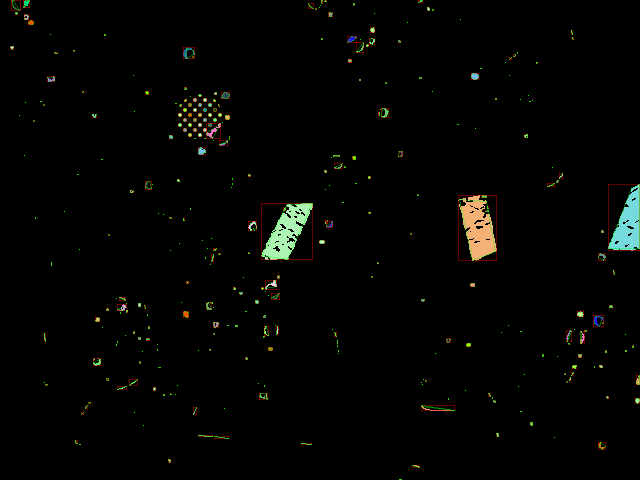
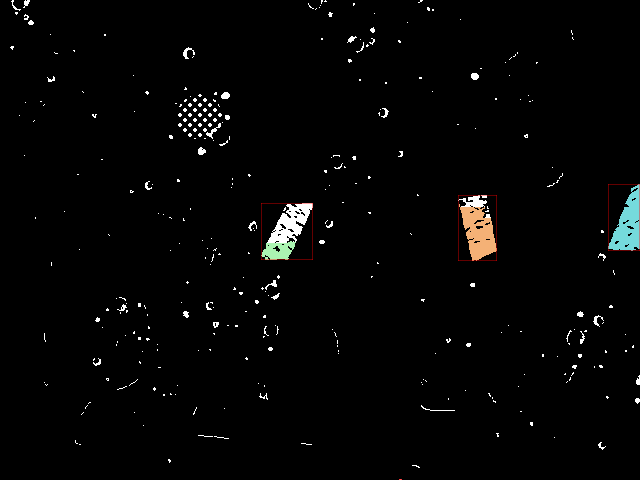
Garbage Collector MVP!!!

diff --git a/Scripting/BlobProcessor.ts b/Scripting/BlobProcessor.ts
@@ -20,7 +20,7 @@ let blobBRAMPortA: BlobBRAMPort = Object.assign({}, BLOB_BRAM_PORT_DEFAULT);
 let blobBRAMPortB: BlobBRAMPort = Object.assign({}, BLOB_BRAM_PORT_DEFAULT);
 let data: any;
 
-//Variables
+//Blob Processor
 enum BlobRunState { IDLE, LAST_LINE, MERGE_READ, MERGE_WRITE_1, MERGE_WRITE_2, JOIN_1, JOIN_2, WRITE };
 let blobRunState: BlobRunState = BlobRunState.IDLE;
 let blobPointers: number[] = [...Array(MAX_BLOBS)].map(_=>(0));
@@ -34,10 +34,20 @@ let blobRunBufferIndexLast: number;
 let blobRunBufferXLast: number;
 let blobMasterBlobID: number;
 let blobUsingPortB: boolean;
+
+//Target Selector
 let targetSelectorDone: boolean;
-enum GarbageRunState { IDLE_READ_A_WAIT_B, WAIT_A_PROCESS_B, PROCESS_A_READ_B };
-let garbageRunState: GarbageRunState = GarbageRunState.IDLE_READ_A_WAIT_B;
-let garbageIndex: number;
+
+//Garbage
+let nonGarbage: boolean[] = [...Array(MAX_BLOBS)].map(_=>(false));
+let garbagePartion: boolean; //flip flop
+let garbageIndex: number; //blob index
+let lastGarbageIndex: number[] = [0, 0];
+let garbageCollectorWasUsingPortA: boolean; //blob BRAM port
+let garbageCollectorWasUsingPortB: boolean;
+let garbageCollectorDone: boolean;
+
+//RLE
 let runBuffers: RunBuffer[] = [...Array(3)].map(_=>({
     runs: [...Array(MAX_RUNS_PER_LINE)].map(_=>({ length: 0, blobID: NULL_BLOB_ID })),
     count: 0,
@@ -48,8 +58,9 @@ let kernel: Kernel = { value: [...Array(8)].map(_=>false), pos: {x:0, y:0}, vali
 let lastKernelValid: boolean;
 
 //"180MHz" Always Loop
+let lastIsWorkingOnFrame: boolean = false;
 function alwaysLoop() {
-    //working on frame
+    //Working on Frame
     if (isWorkingOnFrame()) {
         //New Kernel
         if (kernel.valid && !lastKernelValid) {
@@ -62,14 +73,27 @@ function alwaysLoop() {
         updateBlobProcessor();
     }
 
-    //done with frame
-    else if (!targetSelectorDone && !garbageCollectorDone()) {
+    //Done with Frame
+    else if (!targetSelectorDone && garbageCollectorDone) {
         //Target Selection Loop
         updateTargetSelector();
     }
 
+    //Just Finished Frame
+    if (!isWorkingOnFrame() && lastIsWorkingOnFrame) {
+        //reset garbage collector (make sure all blobs are accounted for)
+        //FORK
+        garbagePartion = false;
+        garbageIndex = 0;
+        lastGarbageIndex = [0, 0];
+        garbageCollectorWasUsingPortA = false;
+        garbageCollectorWasUsingPortB = false;
+        //JOIN
+    }
+    lastIsWorkingOnFrame = isWorkingOnFrame();
+
     //Garbage Collection Loop
-    if (!garbageCollectorDone()) {
+    if (!garbageCollectorDone) {
         updateGarbageCollector();
     }
 }
@@ -238,6 +262,7 @@ function updateBlobProcessor() {
                                 //mark slave as pointer to master
                                 blobPointers[blobLastLineRunRealBlobID()] = blobMasterBlobID;
                                 blobValids[blobLastLineRunRealBlobID()] = false;
+                                nonGarbage[blobLastLineRunRealBlobID()] = false;
 
                                 //go merge blobs & write once we read them
                                 blobRunState = BlobRunState.MERGE_WRITE_1;
@@ -251,13 +276,17 @@ function updateBlobProcessor() {
 
                 //done looping last line => write blob
                 if (blobRunState == BlobRunState.LAST_LINE) {
-                    blobRunState = blobMasterBlobID == NULL_BLOB_ID ? BlobRunState.WRITE : BlobRunState.JOIN_1; //BLOCKING
+                    //FORK
+                    blobRunState = blobMasterBlobID == NULL_BLOB_ID ? BlobRunState.WRITE : BlobRunState.JOIN_1;
+                    //JOIN
                 }
             }
 
             else if (blobRunState == BlobRunState.MERGE_WRITE_1) {
                 //account for read delay
-                blobRunState = BlobRunState.MERGE_WRITE_2; //BLOCKING
+                //FORK
+                blobRunState = BlobRunState.MERGE_WRITE_2;
+                //JOIN
             }
 
             else if (blobRunState == BlobRunState.MERGE_WRITE_2) {
@@ -278,7 +307,9 @@ function updateBlobProcessor() {
             }
 
             else if (blobRunState == BlobRunState.JOIN_2) {
-                blobRunState = BlobRunState.WRITE; //BLOCKING
+                //FORK
+                blobRunState = BlobRunState.WRITE;
+                //JOIN
             }
 
             else if (blobRunState == BlobRunState.WRITE) {
@@ -299,6 +330,7 @@ function updateBlobProcessor() {
                     blobBRAMPortA.din = runToBlob(blobCurrentRun(), blobRunBufferXCurrent, blobCurrentLine());
                     blobBRAMPortA.wea = true;
                     blobValids[blobIndex] = true;
+                    nonGarbage[blobIndex] = false;
 
                     //set ID of the blob we made in runBuffer
                     runBuffers[blobRunBuffersPartionCurrent].runs[blobRunBufferIndexCurrent].blobID = blobIndex;
@@ -376,77 +408,93 @@ function blobProcessorOnLastLine(): boolean {
 }
 
 //Garbage Collector Loop
-let garbageCollectorWasUsingPortA = false;
-let garbageCollectorWasUsingPortB = false;
-let lastGarbageIndex: number;
 function updateGarbageCollector() {
-    if (garbageRunState == GarbageRunState.IDLE_READ_A_WAIT_B) {
-        //Read Port A
-        if (garbageCollectorCanUsePortA()) {
-            lastGarbageIndex = garbageIndex; //BLOCKING?
-            garbageIndex = getNextValidGarbageIndex(); //BLOCKING
-            //TODO getNextValidGarbageIndex returned -1 what now?
-            blobBRAMPortA.addr = garbageIndex;
-            blobBRAMPortA.wea = false;
-            garbageCollectorWasUsingPortA = true;
-            garbageRunState = GarbageRunState.WAIT_A_PROCESS_B;
-        }
-
-        //Port A Unavailble => Process Port B
-        else if (garbageCollectorUsingPortB()) {
-            garbageRunState = GarbageRunState.WAIT_A_PROCESS_B;
-        }
-
-        //Port A Unavailble & Port B not in Use => Read Port B 
-        else if (garbageCollectorCanUsePortB()) {
-            garbageRunState = GarbageRunState.PROCESS_A_READ_B;
-        }
-    }
-
-    else if (garbageRunState == GarbageRunState.WAIT_A_PROCESS_B) {
-        //Process Port B
-        if (garbageCollectorUsingPortB()) {
-            blobValids[lastGarbageIndex] = garbageCollectBlob(blobBRAMPortB.din);
-        }
-
-        //Port B is not in use => Let Port A do its thing
-        else if (garbageCollectorUsingPortA()) {
-            garbageRunState = GarbageRunState.PROCESS_A_READ_B;
-        }
-
-        //Neither Ports are in use => Idle
-        else {
-            garbageRunState = GarbageRunState.IDLE_READ_A_WAIT_B;
-        }
-    }
-    
-    else if (garbageRunState == GarbageRunState.PROCESS_A_READ_B) {
-        //Process Port A
+    if (garbagePartion) {
+        //Process Port A (if read from)
         if (garbageCollectorUsingPortA()) {
-            blobValids[garbageIndex] = garbageCollectBlob(blobBRAMPortA.din);
+            // console.log("PROC", lastGarbageIndex[1], blobBRAMPortA.dout);
+            garbageCollectBlob(lastGarbageIndex[1], blobBRAMPortA.dout);
         }
 
-        //Read Port B
+        //Read Port A (if available)
+        if (garbageCollectorCanUsePortA()) {
+            //Next Garbage Index
+            setNextGarbageIndex();
+
+            //Read Port A
+            if (garbageIndex !== NULL_BLOB_ID && !garbageCollectorDone) {
+                // console.log("READING", garbageIndex);
+                blobBRAMPortA.addr = garbageIndex;
+                blobBRAMPortA.wea = false;
+                garbageCollectorWasUsingPortA = true;
+            }
+            else {
+                garbageCollectorWasUsingPortA = false;
+            }
+        }
+    }
+
+    else {
+        //Process Port B (if read from)
+        if (garbageCollectorUsingPortB()) {
+            // console.log("PROC", lastGarbageIndex[1], blobBRAMPortB.dout);
+            garbageCollectBlob(lastGarbageIndex[1], blobBRAMPortB.dout);
+        }
+
+        //Read Port B (if available)
         if (garbageCollectorCanUsePortB()) {
-            garbageIndex = getNextValidGarbageIndex(); //BLOCKING
-            //TODO getNextValidGarbageIndex returned -1 what now?
-            blobBRAMPortB.addr = garbageIndex;
-            blobBRAMPortB.wea = false;
-            garbageCollectorWasUsingPortB = true;
+            //Next Garbage Index
+            setNextGarbageIndex();
+
+            //Read Port B
+            if (garbageIndex !== NULL_BLOB_ID && !garbageCollectorDone) {
+                // console.log("READING", garbageIndex);
+                blobBRAMPortB.addr = garbageIndex;
+                blobBRAMPortB.wea = false;
+                garbageCollectorWasUsingPortB = true;
+            }
+            else {
+                garbageCollectorWasUsingPortB = false;
+            }
+        }
+    }
+
+    // console.log(`[0] (${lastGarbageIndex[0]}) => [1], gb (${garbageIndex}) => [0]`);
+    lastGarbageIndex[1] = lastGarbageIndex[0];
+    lastGarbageIndex[0] = garbageIndex;
+    garbagePartion = !garbagePartion;
+}
+function garbageCollectBlob(index: number, blob: BlobData): void {
+    //if blob is finished adding to
+    if (blobPartionCurrentValid() && blob.boundBottomRight.y + 4 < blobCurrentLine()) {
+        // console.log(index, blob.boundBottomRight.y, blob.boundBottomRight.y + 4, blobCurrentLine());
+        if (blob.area > 100) {
+            blobValids[index] = true;
+            nonGarbage[index] = true;
+        }
+        else {
+            blobValids[index] = false;
+            nonGarbage[index] = false;
         }
     }
 }
-function garbageCollectBlob(blob: BlobData): boolean {
-    return true;
-}
-function getNextValidGarbageIndex(): number {
-    //not automatic
-    for (let i = 0; i < MAX_BLOBS; i++) {
-        if (i > garbageIndex && i < blobIndex && blobValids[i]) {
-            return i;
+function setNextGarbageIndex(): void {
+    //FORK
+    if (garbageIndex === NULL_BLOB_ID || nextValidGarbageIndex(garbageIndex + 1) === NULL_BLOB_ID) {
+        //still on frame => keep doing garbage duty :(
+        if (isWorkingOnFrame()) {
+            garbageIndex = nextValidGarbageIndex(0);
+        }
+
+        //done with frame => stop garbage duty :)
+        else {
+            garbageCollectorDone = true;
         }
     }
-    return -1;
+    else {
+        garbageIndex = nextValidGarbageIndex(garbageIndex + 1);
+    }
+    //JOIN
 }
 //(verilog wires)
 function garbageCollectorCanUsePortA(): boolean {
@@ -463,9 +511,17 @@ function garbageCollectorUsingPortB(): boolean {
     //if read from Port B & can still use it
     return garbageCollectorWasUsingPortB && garbageCollectorCanUsePortB();
 }
-function garbageCollectorDone(): boolean {
-    //(verilog wire)
-    return garbageIndex == blobIndex;
+function nextValidGarbageIndex(startIndex: number): number {
+    //find a valid index
+    //meaning is it true in the blobValids list
+    //but not true in the nonGarbage list
+    for (let i = 0; i < MAX_BLOBS; i++) {
+        if (i >= startIndex && i < blobIndex && 
+            blobValids[i] && !nonGarbage[i]) {
+            return i;
+        }
+    }
+    return NULL_BLOB_ID;
 }
 
 //Target Selector Loop //TODO
@@ -499,8 +555,12 @@ function resetForNewFrame() {
     blobUsingPortB = false;
     targetSelectorDone = false;
     rleRunBuffersPartion = 0;
-    garbageRunState = GarbageRunState.IDLE_READ_A_WAIT_B;
+    garbagePartion = false;
     garbageIndex = 0;
+    lastGarbageIndex = [0, 0];
+    garbageCollectorWasUsingPortA = false;
+    garbageCollectorWasUsingPortB = false;
+    garbageCollectorDone = false;
     kernel.valid = false;
     lastKernelValid = false;
     for (let i = 0; i < 3; i++) {
@@ -548,12 +608,12 @@ function updateBRAM() {
 
         if (port.wea) {
             //write from din
-            blobBRAM[port.addr] = port.din;
+            blobBRAM[port.addr] = Object.assign({}, port.din);
         }
 
         else {
             //read to dout
-            port.dout = blobBRAM[lastAddresses[p]];
+            port.dout = Object.assign({}, blobBRAM[lastAddresses[p]]);
         }
 
         lastAddresses[p] = port.addr;
@@ -628,7 +688,7 @@ function runImage(imageInputPath: string, imageOutputPath: string): Promise<void
                     for (let i = 0; i < blobColorBuffer[y].count; i++) {
                         const run = blobColorBuffer[y].runs[i];
 
-                        if (run.blobID !== NULL_BLACK_RUN_BLOB_ID) {
+                        if (run.blobID !== NULL_BLACK_RUN_BLOB_ID && nonGarbage[run.blobID] && blobValids[run.blobID]) {
                             for (let x = runBufferX; x < runBufferX + run.length; x++) {
                                 const idx = calculateIDX(x, y);
                                 const realBlobID = getRealBlobIDDebug(run.blobID);

diff --git a/Scripting/Config.ts b/Scripting/Config.ts
@@ -5,5 +5,5 @@ export const IMAGE_INPUT_PATH = 'images/2019_Noise2.png';
 export const IMAGE_OUTPUT_PATH = 'out.png';
 export const DRAW_BLOB_COLOR = true;
 export const DRAW_BOUND = true;
-export const DRAW_POLYGON = true;
+export const DRAW_POLYGON = false;
 export const DRAW_ELLIPSE = false;
